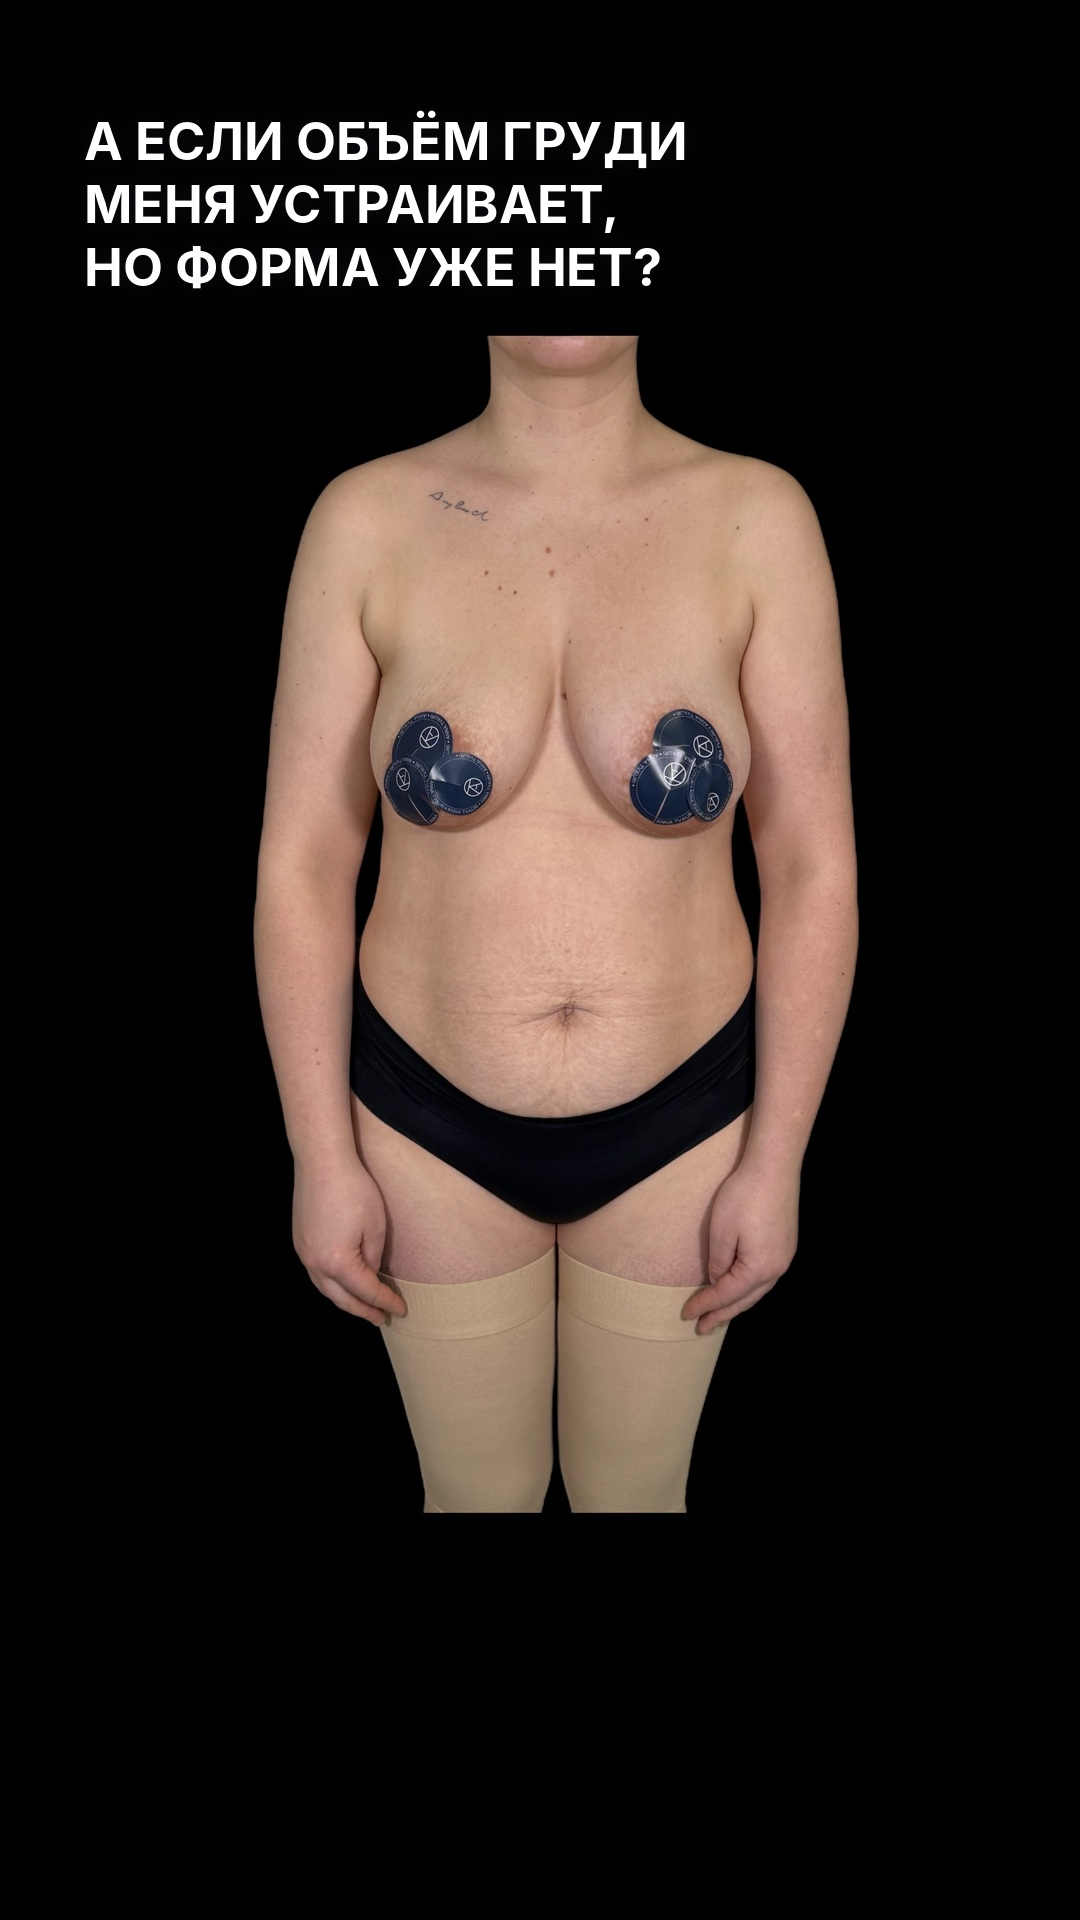
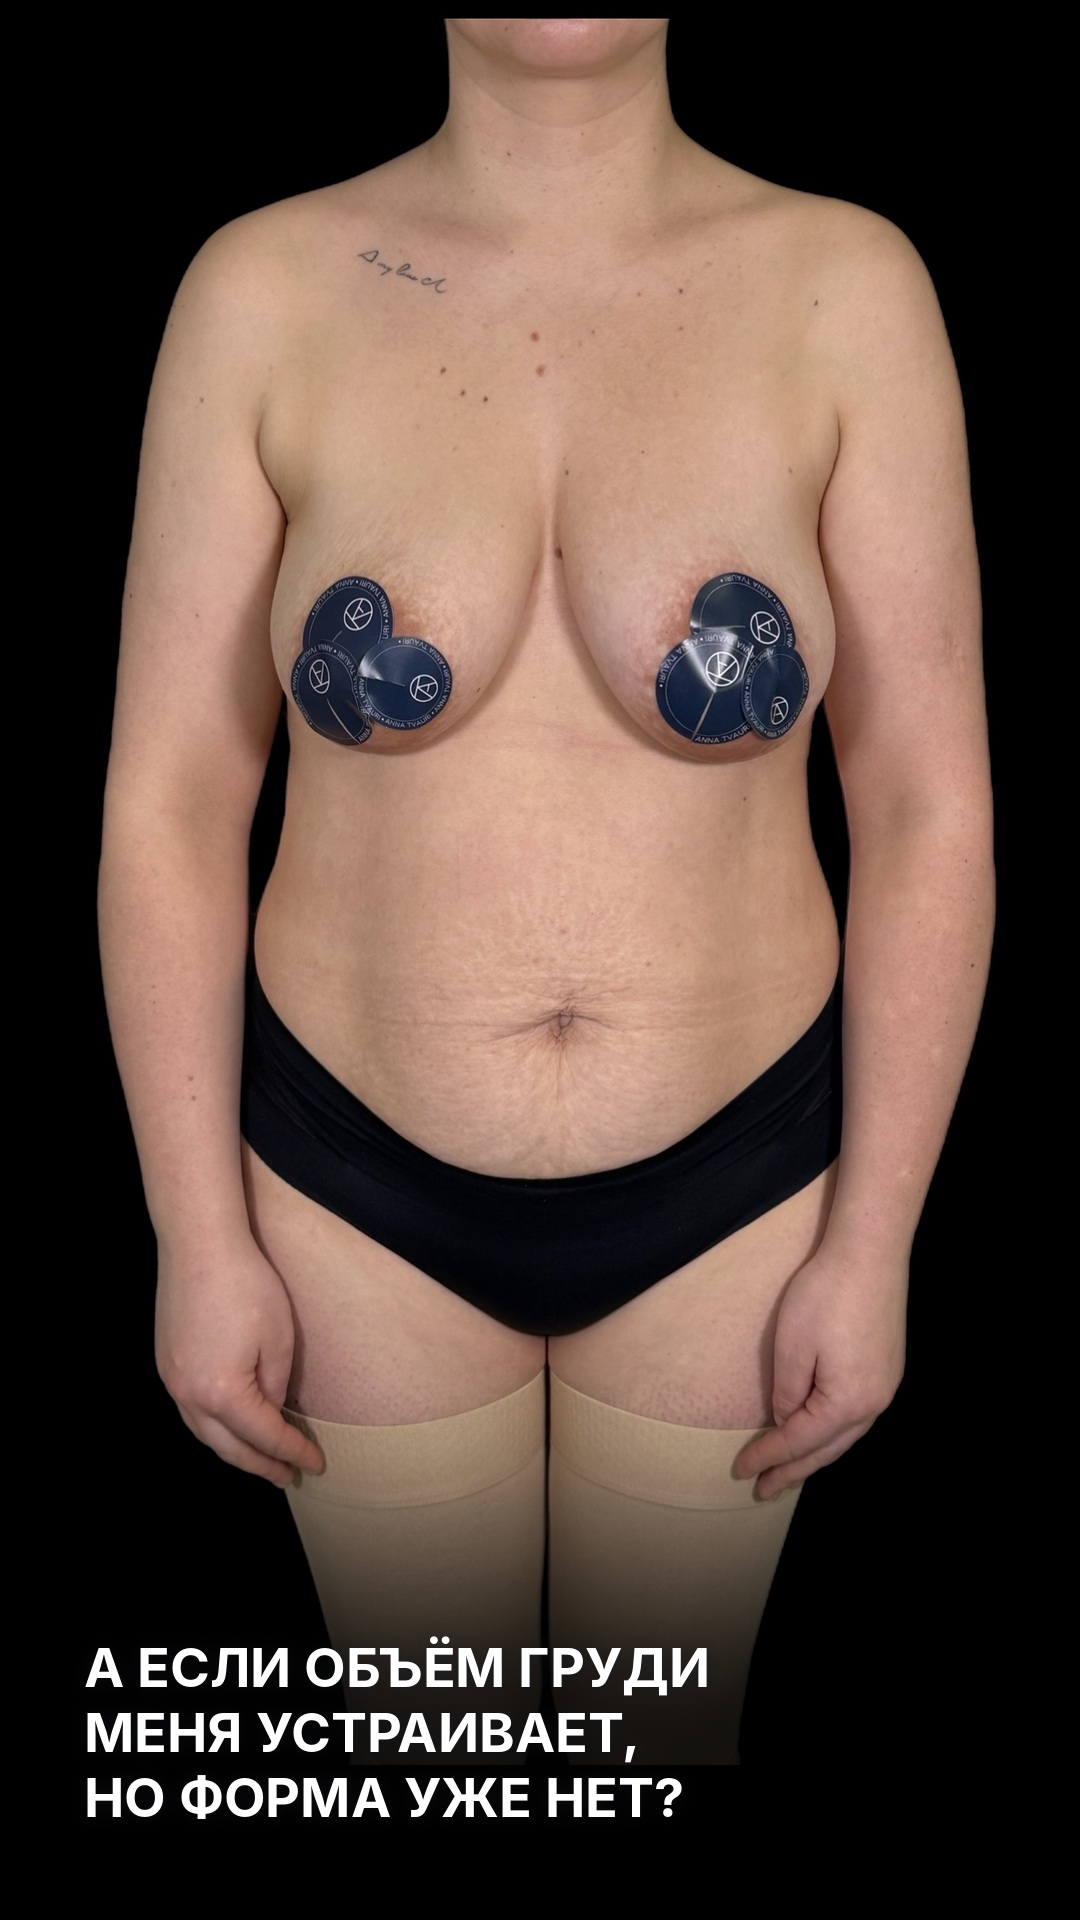
Lift-without-implants story 1: before photo on the whole slide, question at the bottom
Claude-Session: https://claude.ai/code/session_01DoBoRz2HUe4yvMBz6dWv4L

diff --git a/tools/stories_lift_no_volume.py b/tools/stories_lift_no_volume.py
@@ -304,12 +304,14 @@ def bazaart_crop(name, box):
 
 
 def s1():
-    """before (front) on black, the question on top, the poll room under the body"""
-    im = bazaart_crop("IMG_8714.JPG", (0.04, 0.03, 0.96, 0.03 + 0.92 * 2048 / 3640 * 16 / 9)).resize((W, H), Image.LANCZOS)
-    cv = im.convert("RGBA")
-    b = Block().head("А ЕСЛИ ОБЪЁМ ГРУДИ\nМЕНЯ УСТРАИВАЕТ,\nНО ФОРМА УЖЕ НЕТ?", 52, gap=0)
-    ly = Image.new("RGBA", (W, H), (0, 0, 0, 0)); b.draw(ly, MARGIN, 110); cv.alpha_composite(ly)
-    save_jpg(cv, "01_forma.jpg")                                   # poll «Что бы вы хотели изменить?» under the body
+    """before (front) filling the whole slide (chin to thighs); the question straight on it, low, under the usual fade"""
+    w = 0.62; box = (0.20, 0.185, 0.20 + w, 0.185 + w * 2048 / 3640 * 16 / 9)
+    cv = bazaart_crop("IMG_8714.JPG", box).resize((W, H), Image.LANCZOS)
+    b = Block().head("А ЕСЛИ ОБЪЁМ ГРУДИ\nМЕНЯ УСТРАИВАЕТ,\nНО ФОРМА УЖЕ НЕТ?", 54, gap=0)
+    top = H - 90 - b.h
+    cv = Image.fromarray((np.asarray(cv, np.float32) * (1 - fade(top + 50, 320, 0.85))).astype(np.uint8)).convert("RGBA")
+    ly = Image.new("RGBA", (W, H), (0, 0, 0, 0)); b.draw(ly, MARGIN, top); cv.alpha_composite(ly)
+    save_jpg(cv, "01_forma.jpg")                                   # the poll sticker goes above the text, on the thighs
 
 
 def s2():

diff --git a/stories_lift_no_volume/README.md b/stories_lift_no_volume/README.md
@@ -6,7 +6,7 @@
 
 | № | Файл | Фон | Текст |
 |---|------|-----|-------|
-| 1 | 01_forma.jpg | ДО спереди (IMG_8714) на чёрном | А ЕСЛИ ОБЪЁМ ГРУДИ МЕНЯ УСТРАИВАЕТ, НО ФОРМА УЖЕ НЕТ? Под телом — место под опрос «Что бы вы хотели изменить? Только форму / Ещё и объём» |
+| 1 | 01_forma.jpg | ДО спереди (IMG_8714) на весь слайд | А ЕСЛИ ОБЪЁМ ГРУДИ МЕНЯ УСТРАИВАЕТ, НО ФОРМА УЖЕ НЕТ? — внизу поверх фото; опрос «Что бы вы хотели изменить?» над текстом, на бёдрах |
 | 2 | 02_implanty_ne_nuzhny.mp4 | разметка (IMG_5489, лицо пациентки размыто в исходнике), голос хирурга: «Очень неплохой объём железы, железа не пустая, поэтому мы здесь не делаем никакого увеличения, мы просто подтягиваем железы» | ЗДЕСЬ ИМПЛАНТЫ НЕ НУЖНЫ / Собственного объёма достаточно. Субтитры по слову |
 | 3 | 03_u_pacientki.jpg | ДО крупнее, стрелки «широкая ареола», «опущение груди» | У пациентки есть… Поэтому задача здесь: ПОДНЯТЬ ГРУДЬ И СДЕЛАТЬ ФОРМУ БОЛЕЕ СОБРАННОЙ без увеличения |
 | 4 | 04_bez_obema.mp4 | голос хирурга «Груди делаем, конечно же, более круглые, подтянутые», сразу видео ПОСЛЕ (IMG_5485, обрезано под подбородком) | ВОТ ЧТО МЕНЯЕТСЯ БЕЗ ДОБАВЛЕНИЯ ОБЪЁМА: форма, положение груди, контур |
